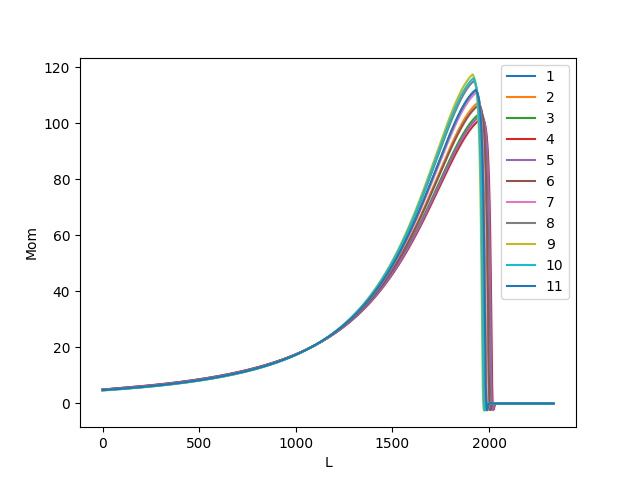
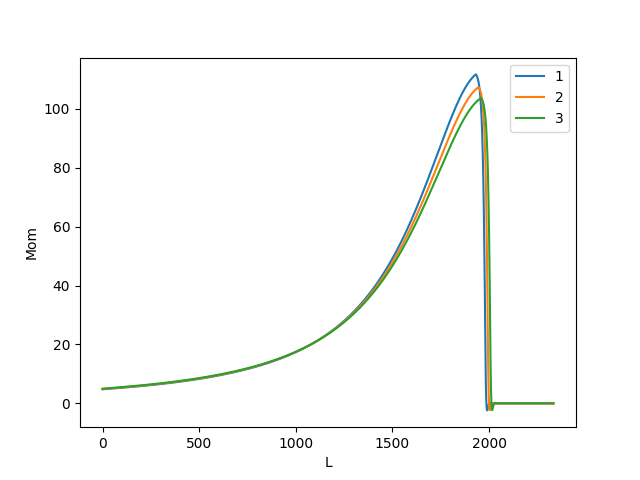
code_2

diff --git a/code_2/view.py b/code_2/view.py
@@ -6,6 +6,10 @@ from scipy import interpolate
 from django.shortcuts import render
 from django.conf import settings
 def get_res(D_o: float):
+    for i in range(1,7):
+        plt.figure(i)
+        plt.cla()
+        plt.clf()
     teta_HO=[]
     input_teta_txt=open(settings.STATICFILES_DIRS[1]/'input_teta.txt','r+')
     for num in input_teta_txt.readlines():
@@ -151,6 +155,9 @@ def get_res(D_o: float):
     x0=0
     xf=-1306.5
 
+    # plot in figure 1
+    plt.figure(1)
+
     for kk in range(size_teta):
         sc0=np.linspace(x0,int(xf*10),int(abs(xf*2)+1))/10  # Common Inteval for sc
         x1=coor1[:,kk]
@@ -170,12 +177,13 @@ def get_res(D_o: float):
         coor2_new=np.array([[0.0]*size_teta]*len(sc0))
         coor1_new[:,0]=sc0
         coor2_new[:,kk]=f_xz(sc0)
-        plt.legend(str(kk))
-        plt.figure(1)
         plt.plot(coor1_new[:,0],coor2_new[:,kk])
         plt.xlabel('H Coor')
         plt.ylabel('V Coor')
-        plt.savefig(settings.STATICFILES_DIRS[1]/'fig_1.png')
+    # add legend to figure
+    plt.legend(range(1,size_teta+1))
+    # save the figure Output to an image file
+    plt.savefig(settings.STATICFILES_DIRS[1]/'fig_1.png')
 
     # Just to see the comparing plot:    # just for test,
     plt.figure(2)
@@ -240,7 +248,6 @@ def get_res(D_o: float):
         plt.plot(Arc_L_new[:,0],mom_fin_new[:,jj])
         plt.xlabel('L')
         plt.ylabel('Mom')
-        plt.legend(str(jj))
         plt.savefig(settings.STATICFILES_DIRS[1]/'fig_3.png')
         # Third main plot:
         plt.figure(4)
@@ -249,12 +256,10 @@ def get_res(D_o: float):
         plt.ylabel('Sig')
         plt.savefig(settings.STATICFILES_DIRS[1]/'fig_4.png')
 
-    plt.legend(str(jj))
     plt.figure(3)
     plt.legend(range(1,size_teta+1))
     plt.savefig(settings.STATICFILES_DIRS[1]/'fig_3.png')
 
-    plt.legend(str(jj))
     plt.figure(4)
     plt.legend(range(1,size_teta+1))
     plt.savefig(settings.STATICFILES_DIRS[1]/'fig_4.png')
